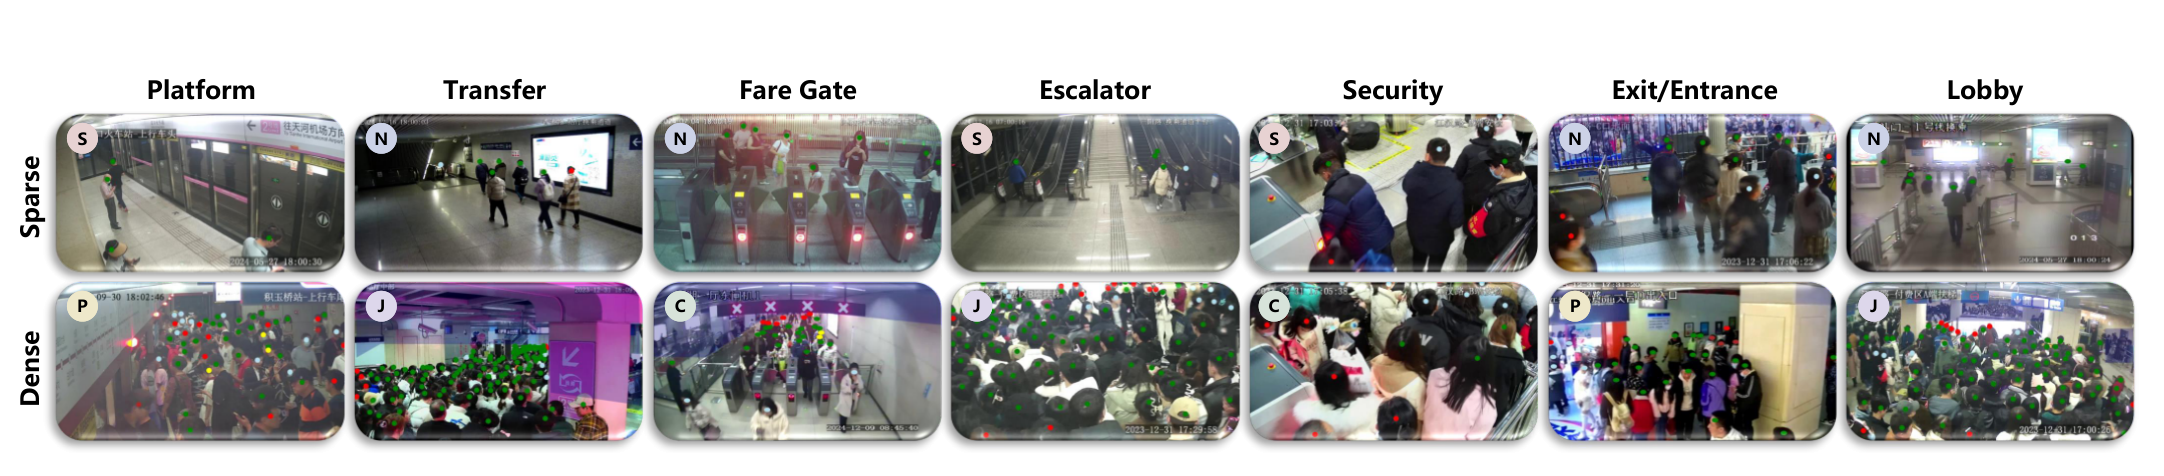
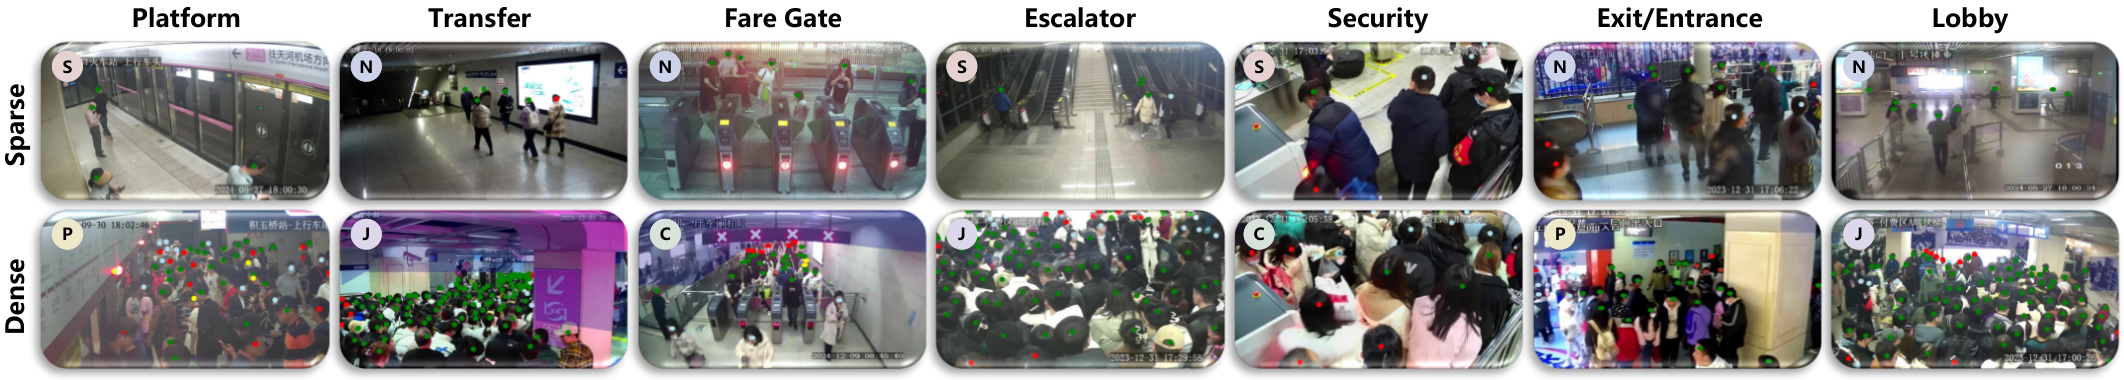
update

diff --git a/OMAN++/README.md b/OMAN++/README.md
@@ -1,28 +1,24 @@
 # Crowded Video Individual Counting Informed by Social Grouping and Spatial-Temporal Displacement Priors (OMAN++)
 
-This repository includes the implementation of the manuscript:
-
-[**Crowded Video Individual Counting Informed by Social Grouping and Spatial-Temporal Displacement Priors**](https://github.com/tiny-smart/OMAN) (TIP 2026)
+This repository includes the implementation of the manuscript: 
+[**Crowded Video Individual Counting Informed by Social Grouping and Spatial-Temporal Displacement Priors**](https://github.com/tiny-smart/OMAN),
+Transaction on Image Processing (TIP 2026)
 
 Hao Lu<sup>1</sup>, Xuhui Zhu<sup>1</sup>, Wenjing Zhang<sup>1</sup>, Yanan Li<sup>2</sup>, Xiang Bai<sup>1</sup>
-
 <sup>1</sup>Huazhong University of Science and Technology, China
-
 <sup>2</sup>Wuhan Institute of Technology, China
 
 [[Manuscript]](doc/OMAN++.pdf) | Transaction Version (todo) | [[Previous Conference Version (OMAN, ICIP 2025)]](https://arxiv.org/abs/2506.13067) | [[Code]](https://github.com/tiny-smart/OMAN)
 
-
-![OMAN++](pics/Pipeline.png)
+![WuhanMetroCrowd](pics/WuhanMetroCrowd.png)
 
 ## Highlights
-
-- **WuhanMetroCrowd dataset**: Our WuhanMetroCrowd dataset features crowded, dynamic pedestrian flows from 7 typical metro station scenes, with severe occlusions and large density variations. Each pedestrian is manually annotated as `pedestrian`, `inflow`, `outflow`, or `both`, and indiscernible regions are masked for fair evaluation.
+- **First Surveillance-view VIC Dataset**: WuhanMetroCrowd dataset features crowded, dynamic pedestrian flows from 7 metro station scenes, with severe occlusions and large variations. Each pedestrian is manually annotated as `pedestrian`, `inflow`, `outflow`, or `both`, and indiscernible regions are masked.
 <p align="center">
   <img src="pics/dataset_teaser.png" width="850">
 </p>
 
-- **Effective across all benchmarks**: OMAN++ outperforms all existing methods and achieves robust counting performance by leveraging the social grouping and spatial-temporal displacement priors, especially in crowded scenarios like WuhanMetroCrowd.
+- **High Performance**: OMAN++ outperforms all existing methods and achieves robust counting performance, especially in crowded scenarios.
 <p align="center">
   <img src="pics/qualitative_results.png" width="850">
 </p>
@@ -36,21 +32,19 @@ Hao Lu<sup>1</sup>, Xuhui Zhu<sup>1</sup>, Wenjing Zhang<sup>1</sup>, Yanan Li<s
 
 ## Overview
 
-Video Individual Counting (VIC) aims to estimate foot traffic by counting unique pedestrians in a video, which is essentially a correspondence problem between frames. Existing VIC approaches mostly follow a one-to-one (O2O) matching strategy conditioned on appearance only, and therefore underperform in crowded scenes such as metro commuting.
+Video Individual Counting (VIC) estimates foot traffic by counting unique pedestrians in a video. Existing methods primarily rely on appearance-based O2O matching, limiting performance in crowded scenes.
 
-This work rethinks the nature of VIC and recognizes two informative priors:
+This work revisits VIC through two informative priors:
+- Social grouping prior: pedestrians often form groups, motivating O2M matching through ICG and OMPM;
+- Spatial-temporal displacement prior: pedestrians cannot teleport, motivating DPI that extracts motion through DASA, a displacement modulator, and D-OT loss.
 
-- **Social grouping prior**: pedestrians tend to gather in groups, which inspires relaxing the O2O matching to a one-to-many (O2M) matching, implemented by an Implicit Context Generator (ICG) and a One-to-Many Pairwise Matcher (OMPM);
-- **Spatial-temporal displacement prior**: an individual cannot teleport physically, which facilitates a Displacement Prior Injector (DPI) that strengthens O2M matching, feature extraction, and model training via a Displacement-Aware Self-Attention (DASA) block, a displacement modulator, and a displacement-informed Optimal Transport (D-OT) loss.
-
-These designs jointly form **OMAN++**, a simple but strong VIC baseline. To fill the data gap of crowded scenes, we further build **WuhanMetroCrowd**, one of the first VIC datasets characterized by crowded, dynamic pedestrian flows: 80 surveillance videos from 15 metro stations, 11,925 frames (2s sampling), and 223,662 manually annotated pedestrians with inflow/outflow labels.
+![OMAN++](pics/Pipeline.png)
 
 ### What's New Compared with OMAN (ICIP 2025)
 
 - A novel crowded VIC benchmark, WuhanMetroCrowd, featuring long sequences, large density/flow variations, and severe occlusions;
-- The spatial-temporal displacement prior with three synergistic modules: DASA, the displacement-modulated matcher, and the D-OT loss;
-- Cross-frame displacement-aware self-attention and a displacement-modulated O2M matcher;
-- Comprehensive experiments on four benchmarks (SenseCrowd, CroHD, MovingDroneCrowd, WuhanMetroCrowd) with consistent improvements over the state of the art.
+- The spatial-temporal displacement prior, working in synergy with the social grouping prior;
+- Comprehensive experiments on four benchmarks with consistent improvements over the state of the art.
 
 ## Repository Structure
 
@@ -70,9 +64,6 @@ OMAN++
 │   └── backbones/            # ConvNeXt-S / VGG16 backbones
 └── datasets/                 # SenseCrowd / HT21 / Metro / UAVVIC / MovingDroneCrowd loaders
 ```
-
-## Model Zoo
-Pretrained models are available at [[Baidu disk]](https://pan.baidu.com/s/1Cfyq3mV-CleJwDlvXlww5A?pwd=g9j2) and [[Google disk]](https://drive.google.com/drive/folders/1lvLWBbbTAPY9jOxBj9MMkYXXLQ7CYuQN?usp=share_link)
 
 ## Installation
 
@@ -129,14 +120,26 @@ python eval_metrics_Metro.py
 ```
 
 ## Results
-
-Here are OMAN++'s Results on *WuhanMetroCrowd-Preview (80 clips, 11,925 frames, 223,662 annotations)* and *WuhanMetroCrowd-Final (80 clips, 11,925 frames, 207,545 annotations)*. Final version results will be updated soon.
+- WuhanMetroCrowd-Preview
+Results on *WuhanMetroCrowd-Preview* (80 clips, 11,925 frames, 223,662 annotations).
 
 | Dataset | MAE ↓ | MSE ↓ | WRAE ↓ | Checkpoint |
-| :--: | :--: | :--: | :--: | :-- |
-| **WuhanMetroCrowd-Preview** | **87.1** | **160.2** | **19.8%** | [[Baidu]](https://pan.baidu.com/s/1Cfyq3mV-CleJwDlvXlww5A?pwd=g9j2) [[Google]](https://drive.google.com/drive/folders/1lvLWBbbTAPY9jOxBj9MMkYXXLQ7CYuQN?usp=share_link) |
-| **WuhanMetroCrowd-Final** | **-** | **-** | **-** | [[Baidu]]() [[Google]]() |
+| :--: | :--: | :--: | :--: | :--: |
+| CGNet | - | - | - | -|
+| SDNet | - | - | - | [[Baidu]]() [[Google]]() |
+| OMAN | - | - | - | [[Baidu]]() [[Google]]() |
+| **OMAN++** | **87.1** | **160.2** | **19.8%** | [[Baidu]](https://pan.baidu.com/s/1Cfyq3mV-CleJwDlvXlww5A?pwd=g9j2) [[Google]](https://drive.google.com/drive/folders/1lvLWBbbTAPY9jOxBj9MMkYXXLQ7CYuQN?usp=share_link) |
 
+
+- WuhanMetroCrowd-Final
+Results on *WuhanMetroCrowd-Final* (80 clips, 11,925 frames, 207,545 annotations).
+
+| Dataset | MAE ↓ | MSE ↓ | WRAE ↓ | Checkpoint |
+| :--: | :--: | :--: | :--: | :--: |
+| CGNet | 99.1 | 142.6 | 38.9% | [[Baidu]]() [[Google]]() |
+| SDNet | - | - | - | [[Baidu]]() [[Google]]() |
+| OMAN | - | - | - | [[Baidu]]() [[Google]]() |
+| **OMAN++** | **-** | **-** | **-** | [[Baidu]]() [[Google]]() |
 
 
 ## Citation
@@ -150,6 +153,7 @@ todo
 ## Permission
 
 This code is for academic purposes only. Contact: Xuhui Zhu (XuhuiZhu@hust.edu.cn)
+For commercial use, Contact: Hao Lu (hlu@hust.edu.cn)
 
 ## Acknowledgement
 

diff --git a/README.md b/README.md
@@ -1,28 +1,24 @@
-# Video Individual Counting With Implicit One-to-many Matching (ICIP 2025)
+# Video Individual Counting With Implicit One-to-many Matching (ICIP 2025 / TIP 2026)
 
-This repository includes the official implementation of the paper:
+## Updates
 
-[**Video Individual Counting With Implicit One-to-many Matching**](https://arxiv.org/abs/2506.13067)
+- **13 Oct 2026**: The journal version of this work has been accepted! We further propose a large-scale VIC dataset and extend our insights. Code and WuhanMetroCrowd reported in the [paper](https://github.com/tiny-smart/OMAN) can be accessed in this [repo](https://github.com/tiny-smart/OMAN/tree/main/OMAN%2B%2B).
+- **9 Dec 2025**: The paper is finalized and released!
+- **23 May 2025**: Inference code and pretrained models are released!
 
+
+This repository includes the official implementation of the paper: 
+[**Video Individual Counting With Implicit One-to-many Matching**](https://arxiv.org/abs/2506.13067), 
 International Conference on Image Processing (ICIP), 2025
 
-Xuhui Zhu<sup>1</sup>, Jing Xu<sup>2</sup>,Bingjie Wang<sup>3</sup>,Huikang Dai<sup>2</sup>,[Hao Lu](https://sites.google.com/site/poppinace/)<sup>1</sup>
-
+Xuhui Zhu<sup>1</sup>, Jing Xu<sup>2</sup>, Bingjie Wang<sup>3</sup>, Huikang Dai<sup>2</sup>, [Hao Lu](https://sites.google.com/site/poppinace/)<sup>1</sup>
 <sup>1</sup>Huazhong University of Science and Technology, China
-
 <sup>2</sup>FiberHome Telecommunication Technologies Co., Ltd., China
-
 <sup>3</sup>University of Rochester, Rochester, USA
 
 [[Paper]](https://arxiv.org/abs/2506.13067) | [[Code]](https://github.com/tiny-smart/OMAN)
 
 ![OMAN](pics/Pipeline.png)
-
-## Updates
-
-- **13 Oct 2026**: The [journal version](https://github.com/tiny-smart/OMAN) of this work has been accepted! We further propose a large-scale VIC dataset and extend our insights on VIC. Inference code and WuhanMetroCrowd dataset can be accessed in this [repo](https://github.com/tiny-smart/OMAN/tree/main/OMAN%2B%2B).
-- **9 Dec 2025**: The paper is finalized and released!
-- **23 May 2025**: Inference code and pretrained models are released!
 
 ## Overview
 
